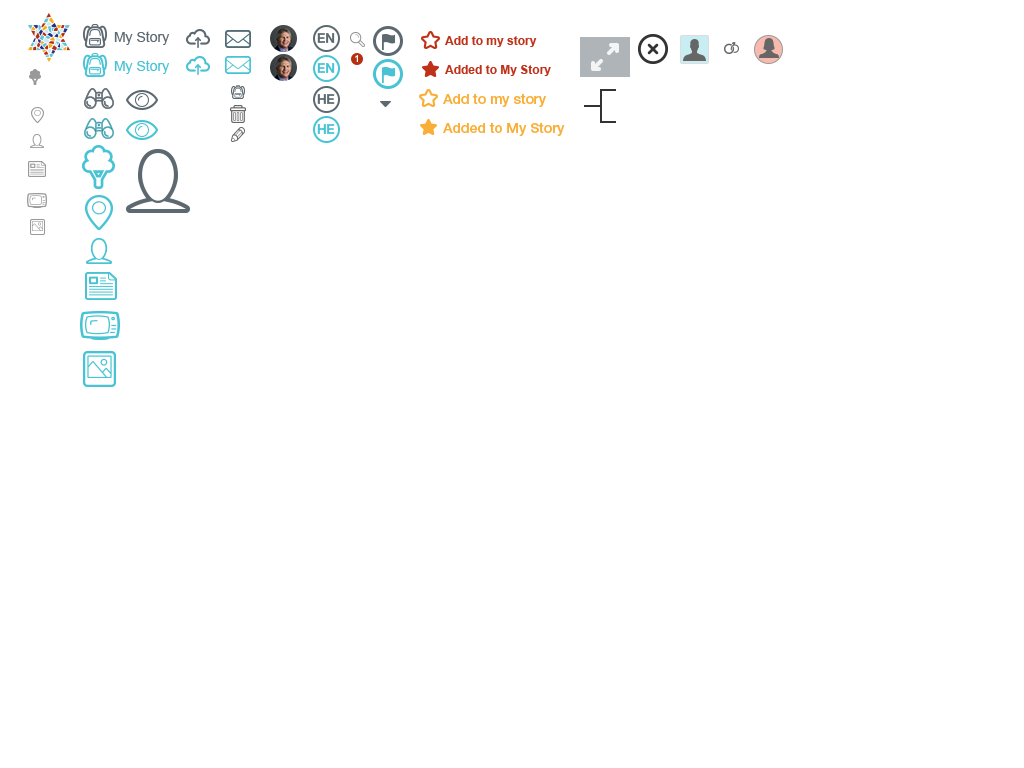
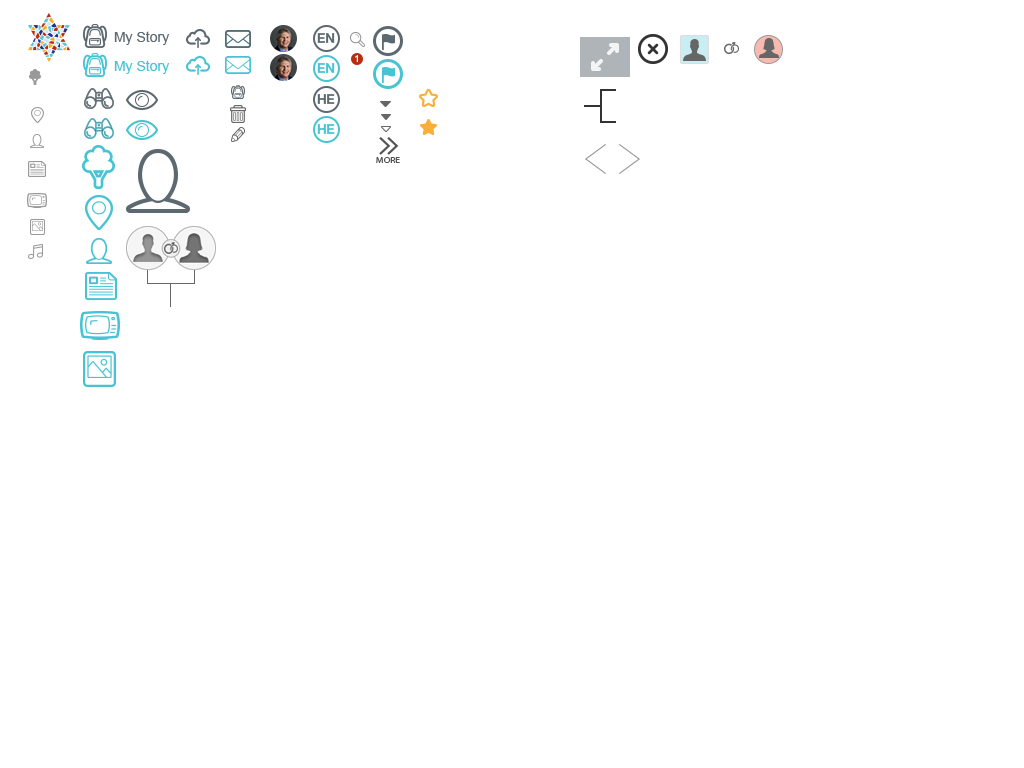
ftrees wizard search result card

diff --git a/scss/_placeholders.scss b/scss/_placeholders.scss
@@ -6,6 +6,7 @@
 	color: #b4b4b4; 
 	border-bottom-right-radius: 3px;
 	border-bottom-left-radius: 3px;
+	font-size: 11px;
 
 	.en & {
 		padding-right: 5px;
@@ -19,6 +20,7 @@
 
 	.type-icon-container {
 		display: inline-block;
+		padding-top: 3px;
 
 		.en & {
 			padding-left: 5px;
@@ -41,6 +43,12 @@
 			height: 17px;
 			@include icon(-30px -106px);
 		}
+
+		.tree-icon {
+			width: 19px;
+			height: 17px;
+			@include icon(-28px -68px);
+		}
 	}
 
 	.type-desc-container {
@@ -54,20 +62,23 @@
 %item-preview {
 	display: inline-block;
 	vertical-align: middle;
-	height: 100%;
+	width: 200px;
+	height: auto;
 	background: #ffffff;
 	overflow: hidden;
+	margin: 0 0 18px;
 	padding: 0 10px 10px;
 	@include item-bottom-border();
 	@include border-radius(8px 8px 0 0);
 	@include item-shadow();
-	@include hover-pointer();
+	@include hover-pointer(); 
 		
 	.type {
 		@extend %item-type;
 	}
 
 	.header {
+		margin: 36px 0 12px;
 		font-size: 12px;
 		font-weight: bold;
 		clear: both;
@@ -77,12 +88,28 @@
 		color: #474747;
 		overflow: hidden;
 		font-size: 11px;
+		height: 50px;
+		line-height: 16px;
+		margin: 0 0 15px;
+
+		&--nothumb {
+			height: 100px;
+		}
 	}	
 
 	.thumbnail {
 		position: relative;
+		width: 180px;
+		height: 180px;
 		margin: 0 auto;
 		overflow: hidden;
+
+		&--trees {
+			width: 92px;
+			height: 83px;
+			margin-top: 35px;
+			@include icon(-125px -225px);
+		}
 
 		img {
 			position: absolute;

diff --git a/scss/main/_wizard-result.scss b/scss/main/_wizard-result.scss
@@ -13,7 +13,7 @@
 		&__name, &__place, &__individuals {
 			display: inline-block;
 			vertical-align: top;
-			width: 300px;
+			width: 220px;
 			padding: 10px;
 			margin: 0 auto;
 
@@ -24,82 +24,10 @@
 			.he & {
 				text-align: right;
 			}
-
-			.item-preview, .no-result {
+			
+			.item-preview {
 				@extend %item-preview;
 				display: inline-block;
-
-				.type {
-					
-					.type-icon-container {
-						padding-top: 6px;
-					}
-				}
-
-				.header {
-					margin: 33px 0 26px;
-				}
-
-				.text {
-					line-height: 16px;
-				}
-			}
-
-			.item-preview {
-				@include hover-pointer();
-
-				.header {
-
-					.en & {
-						padding: 0 0 0 10px;
-					}
-
-					.he & {
-						padding: 0 10px 0 0;
-					}
-				}
-
-				.text {
-					height: 46px;
-					margin: 0 0 28px;
-				}
-
-				.thumbnail {
-					width: 260px;
-					height: 170px;
-				}
-			}
-
-			.no-result {
-
-				.header, .text {
-					color: grey;
-					font-weight: normal;
-				}
-			}
-		}
-
-		&__name {
-
-			.item-preview, .no-result {
-				width: 280px;
-				height: 330px;
-			}
-		}
-
-		&__place {
-
-			.item-preview, .no-result {
-				width: 280px;
-				height: 330px;
-			}
-		}
-
-		&__tree {
-
-			.item-preview, .no-result, .multiple-result {
-				height: 85px;
-				width: 260px;
 			}
 		}
 	}

diff --git a/js/modules/main/src/controllers/itemCtrl.js b/js/modules/main/src/controllers/itemCtrl.js
@@ -1,4 +1,4 @@
-var ItemCtrl = function($stateParams, item, notification, itemTypeMap, wizard, header, mjs, recentlyViewed) {
+var ItemCtrl = function($stateParams, item, notification, itemTypeMap, wizard, header, mjs, recentlyViewed, previousState) {
 	var self = this;
 
 	if (header.sub_header_state !== 'recently-viewed') {
@@ -14,7 +14,7 @@ var ItemCtrl = function($stateParams, item, notification, itemTypeMap, wizard, h
 	this.related_data = [];
 	this.in_mjs = false;
 	
-	if ( wizard.result.individuals && wizard.result.individuals.isNotEmpty() ) {
+	if ( previousState.name === 'start' && wizard.result.individuals && wizard.result.individuals.isNotEmpty() ) {
 		this.related_individuals = wizard.result.individuals; 
 
 		this.related_individuals_query_params = {}
@@ -96,4 +96,4 @@ ItemCtrl.prototype = {
 	}
 };
 
-angular.module('main').controller('ItemCtrl', ['$stateParams', 'item', 'notification', 'itemTypeMap','wizard', 'header', 'mjs', 'recentlyViewed', ItemCtrl]);
+angular.module('main').controller('ItemCtrl', ['$stateParams', 'item', 'notification', 'itemTypeMap','wizard', 'header', 'mjs', 'recentlyViewed', 'previousState', ItemCtrl]);

diff --git a/js/modules/main/src/_init/_init.js b/js/modules/main/src/_init/_init.js
@@ -48,6 +48,19 @@ function($urlRouterProvider, $stateProvider, $locationProvider, $httpProvider, f
             name: 'item-view',
             url: '/item/:item_string',
             templateUrl: 'templates/main/item/item.html',
+            resolve: {
+                previousState: [
+                    "$state",
+                    function ($state) {
+                        var currentStateData = {
+                            name: $state.current.name,
+                            params: $state.params,
+                            URL: $state.href($state.current.name, $state.params)
+                        };
+                        return currentStateData;
+                    }
+                ]
+            },
             controller: 'ItemCtrl as itemController'
         },
 

diff --git a/scss/main/_item.scss b/scss/main/_item.scss
@@ -1,6 +1,5 @@
 #item-page-container {
 	width: 100%;
-	//height: 100%;
 	background: #eeeeee;
 	overflow: auto;
 
@@ -248,36 +247,6 @@
 
 			.item-preview {
 				@extend %item-preview;
-				width: inherit;
-				margin: 0 0 18px;
-				@include hover-pointer(); 
-
-				.type {
-					font-size: 11px;
-
-					.type-icon-container {
-						padding-top: 3px;
-					}
-				}
-
-				.header {
-					margin: 36px 0 12px;
-				}
-
-				.text {
-					height: 50px;
-					line-height: 16px;
-					margin: 0 0 15px;
-
-					&--nothumb {
-						height: 100px;
-					}
-				}
-
-				.thumbnail {
-					width: 180px;
-					height: 180px;
-				}
 			}
 		}
 	}

diff --git a/templates/main/trees-preview.html b/templates/main/trees-preview.html
@@ -1,7 +1,7 @@
 <div class="item-preview" ng-click="treesPreviewCtrl.goto_trees(queryParams)">
 	<div class="type">
 		<div class="type-icon-container">
-			<div class="surname-icon"></div>
+			<div class="tree-icon"></div>
 		</div>
 		<div class="type-desc-container">
 			<en>Family trees</en>
@@ -9,12 +9,9 @@
 		</div>
 	</div>
 	<div class="header">
-		{{individuals.length}}
+		{{individuals.length}} Individuals
 	</div>
-	<div class="text">
-		
-	</div>
-	<div class="thumbnail">
+	<div class="thumbnail thumbnail--trees">
 		
 	</div>
 	<div ng-if="removable">REMOVE</div>

diff --git a/templates/main/wizard-result.html b/templates/main/wizard-result.html
@@ -1,6 +1,6 @@
 <div id="wizard-result" ng-if="wizardResultController.search_status != '' && wizardResultController.search_status != 'none' && !(wizardResultController.failed)">
 	<div class="items">
-		<div class="items__name" ng-if="wizardResultController.result.name.isNotEmpty">
+		<div class="items__name" ng-if="wizardResultController.result.name.isNotEmpty()">
 			<item-preview preview-data="wizardResultController.result.name" content="name"></item-preview>
 		</div>
 		<div class="items__place" ng-if="wizardResultController.result.place.isNotEmpty()">

diff --git a/js/modules/main/src/directives/fitThumbDirective.js b/js/modules/main/src/directives/fitThumbDirective.js
@@ -1,7 +1,7 @@
 angular.module('main').directive('fitThumb', ['$timeout', function($timeout) {
 	return {
 		restrict: 'A',
-		scope: true,
+		scope: {},
 		link: function(scope, element) {
 			
 			$timeout(function() {

diff --git a/scss/main/_mjs.scss b/scss/main/_mjs.scss
@@ -585,6 +585,7 @@
 
 				.thumbnail {
 					margin-top: 6px;
+					width: 114px;
 					height: 114px;
 				}
 			}
